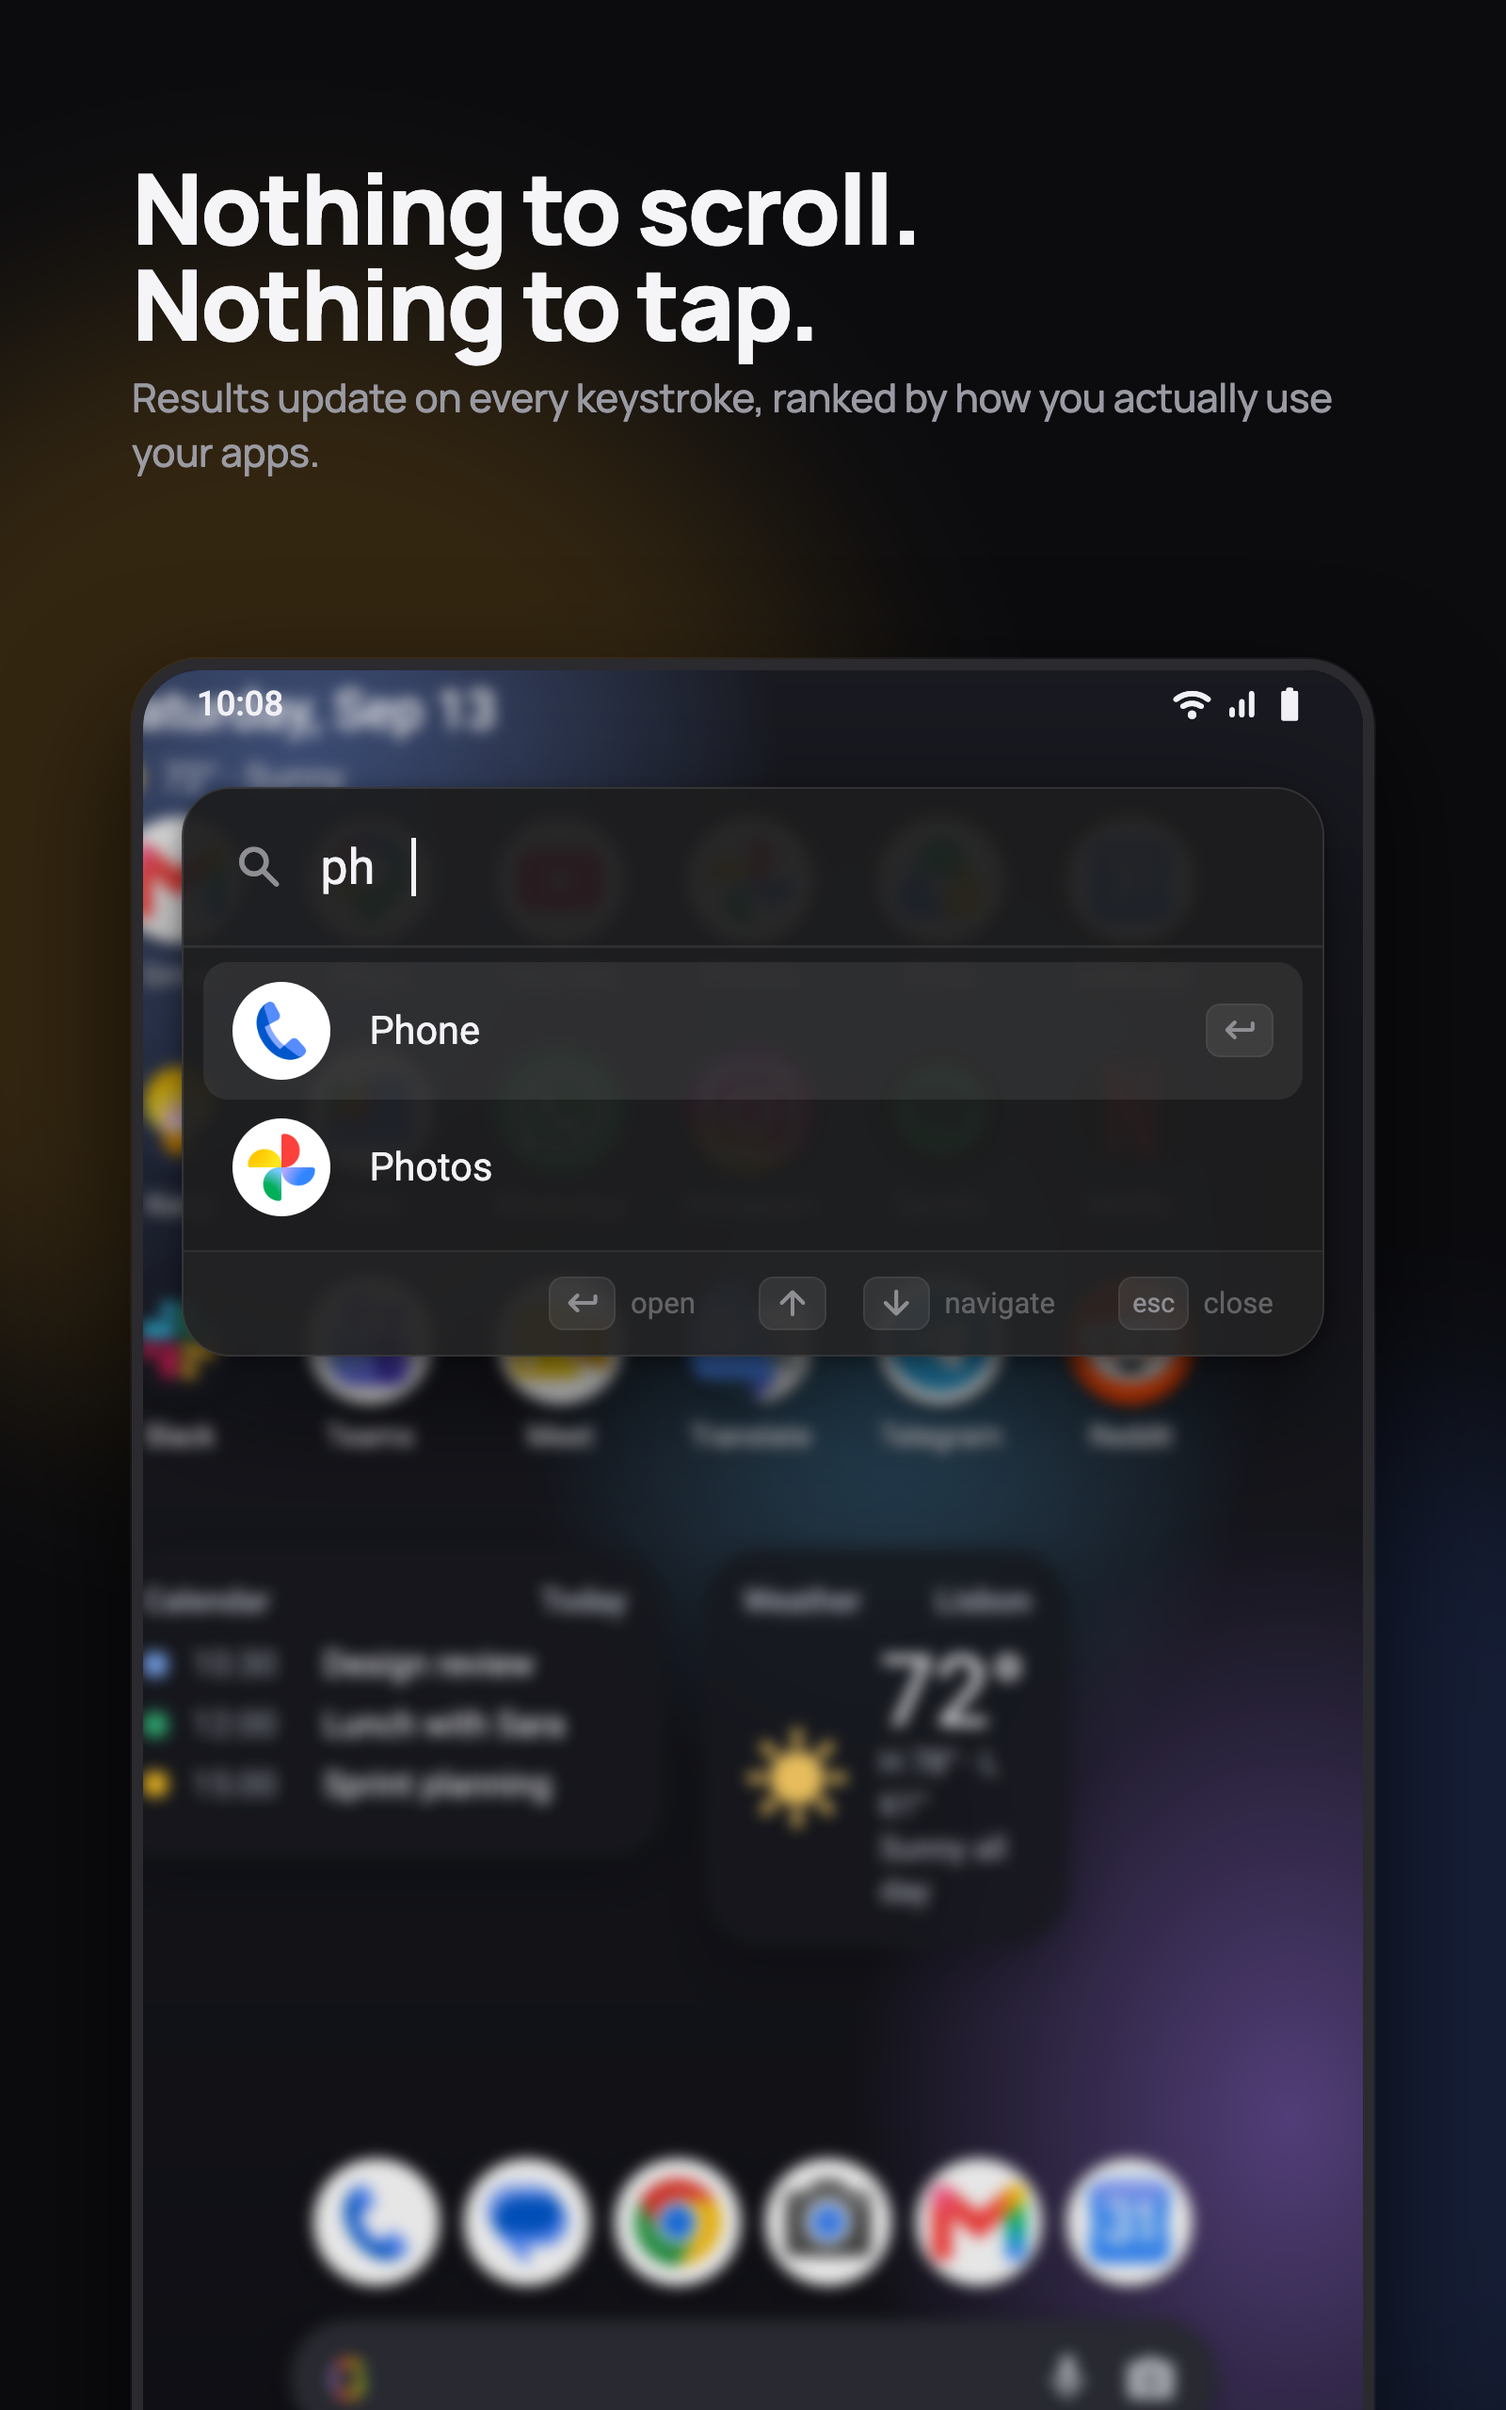
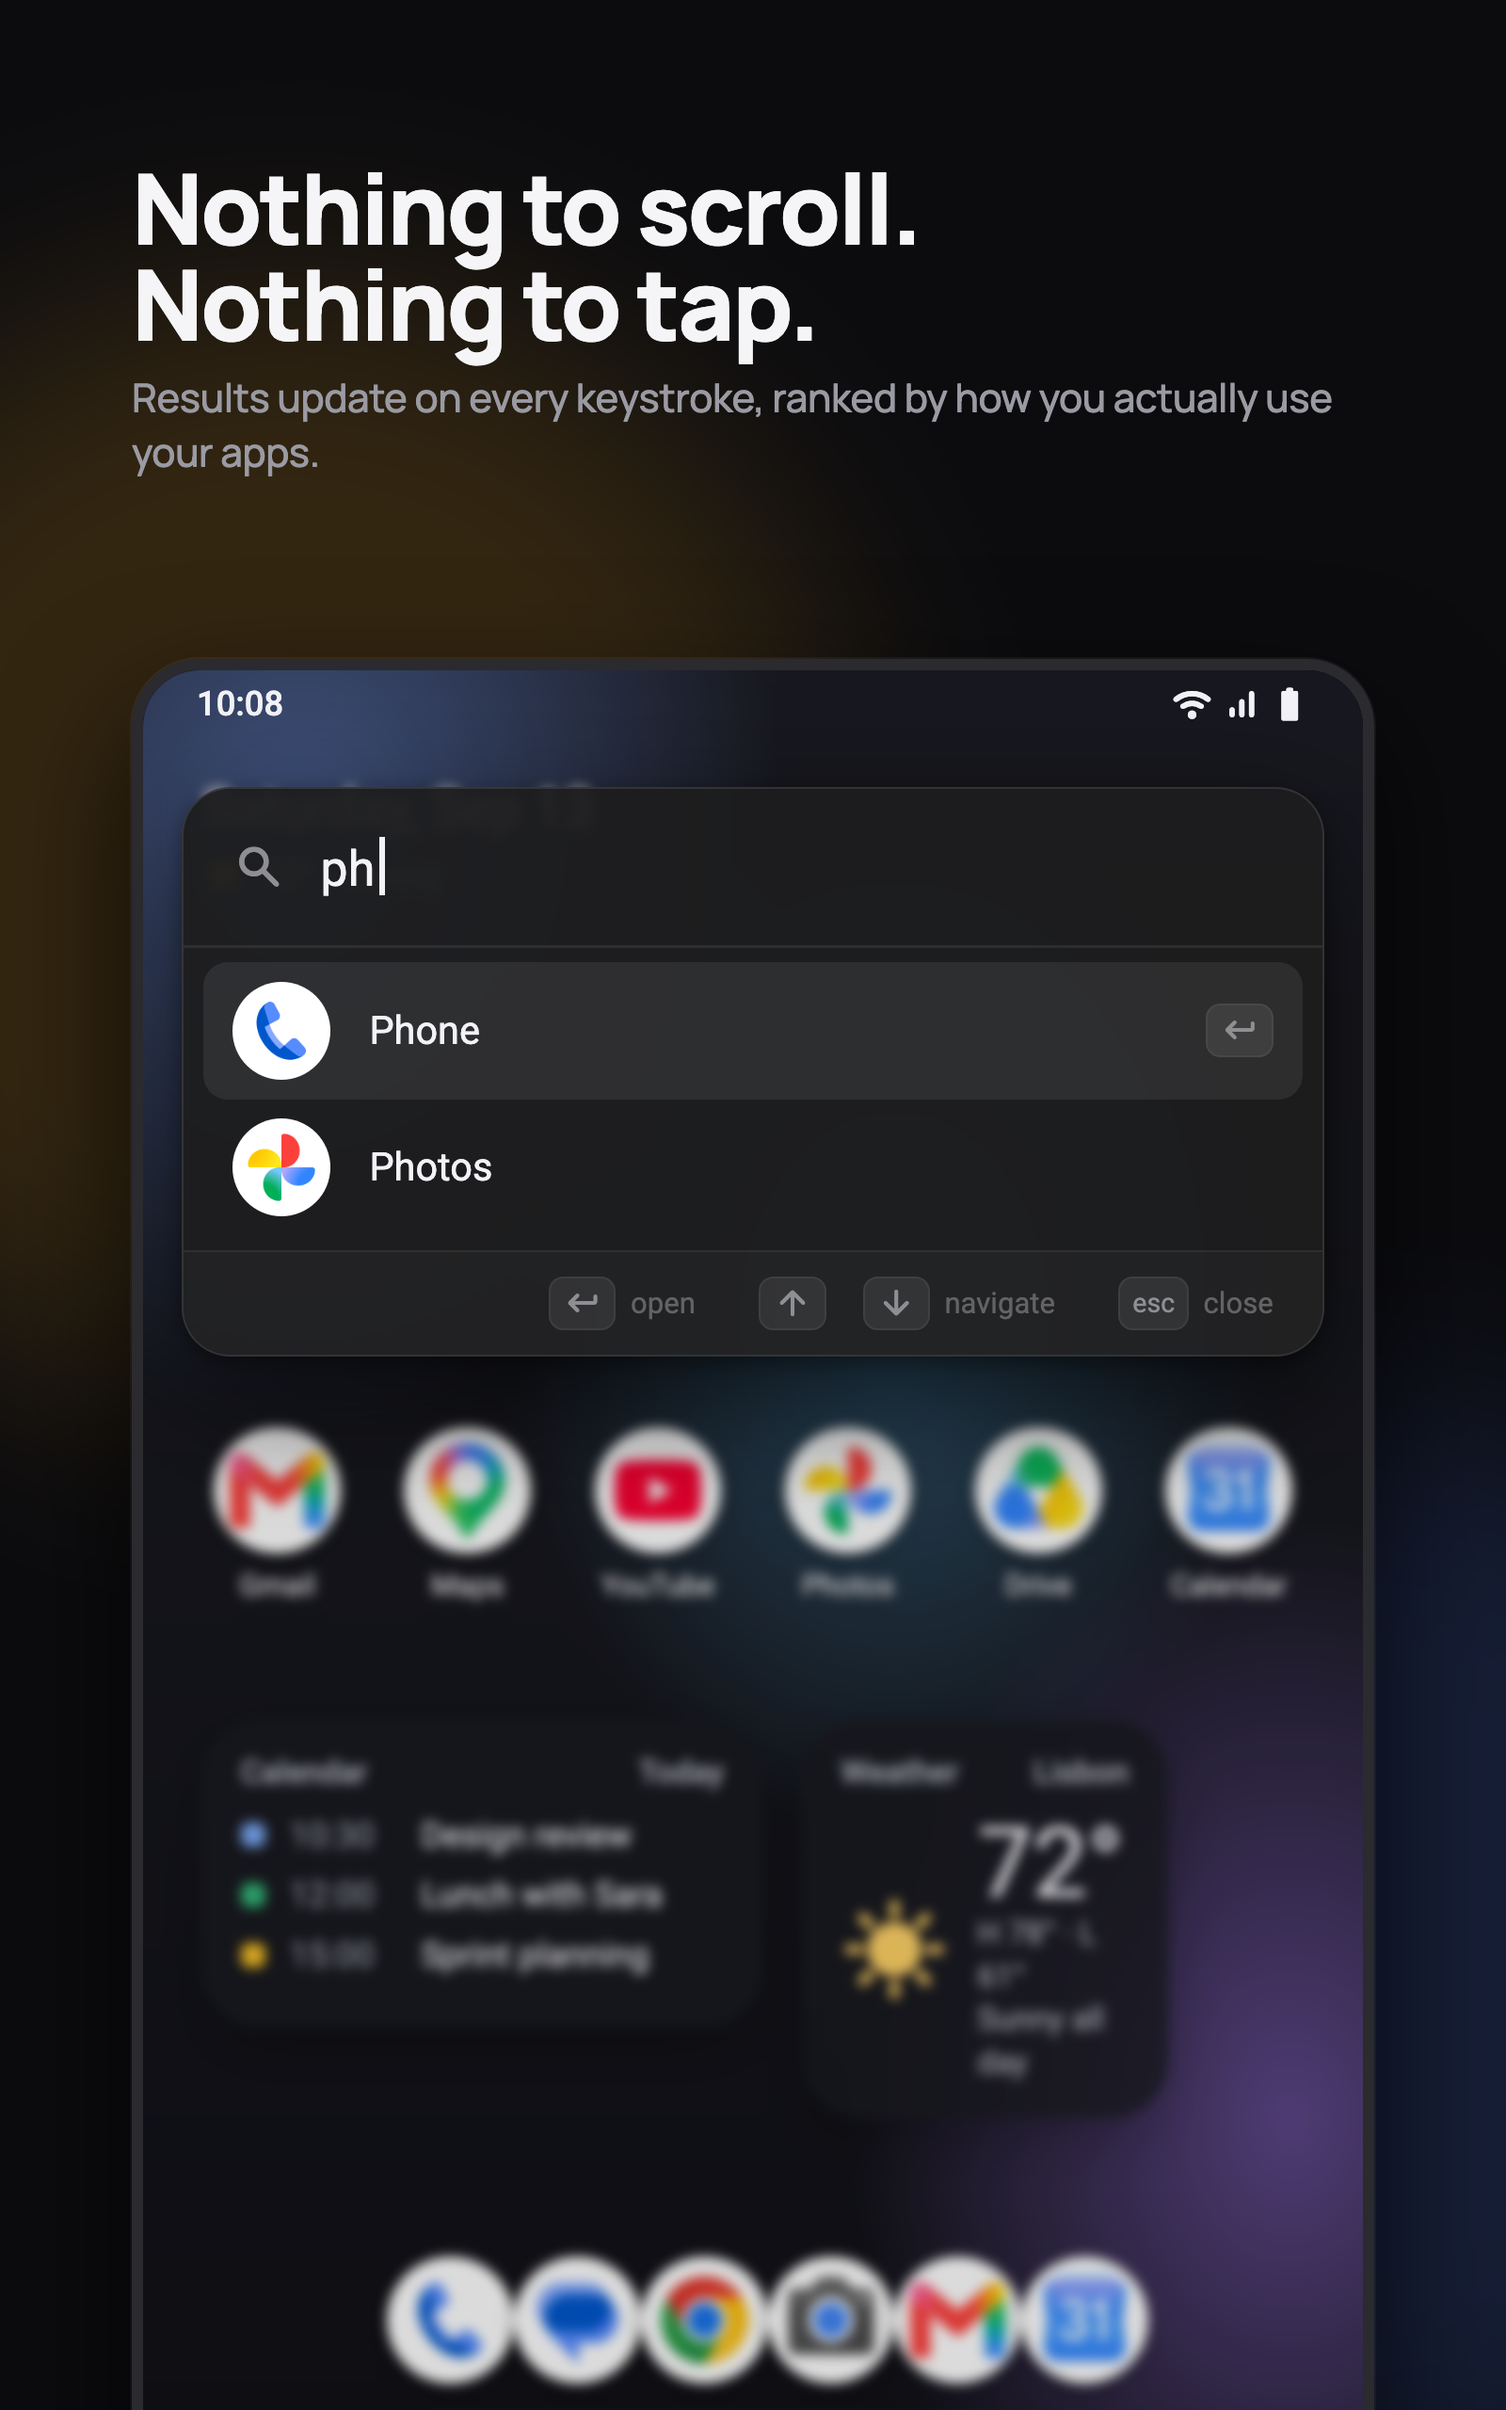
Store screenshots: fix home-layer offset, caret spacing, grid placement; taller landscape screen
The frosted home layer carried its blur bleed margin as padding, shifting content 40 dp up into the
status bar. Caret now sits inside the query span instead of a separate flex item. App grid and widgets
are placed below the card rather than under it. Landscape tablet screen is 540 dp tall so dock and
widgets no longer overlap.

Changed region(s): [[0.0938, 0.4375, 0.875, 1.0], [0.0938, 0.2812, 0.3438, 0.4062], [0.25, 0.3438, 0.2812, 0.375]]

diff --git a/store/screenshots/mockups/gen.py b/store/screenshots/mockups/gen.py
@@ -28,12 +28,13 @@ body{font-family:Manrope,system-ui,sans-serif;color:#F5F5F7;position:relative}
 .screen{position:absolute;inset:0;overflow:hidden;background:#101014}
 .ms{font-family:'Material Symbols Rounded';font-weight:400;line-height:1;display:inline-block;font-variation-settings:'FILL' 1,'wght' 400,'GRAD' 0,'opsz' 24}
 /* ---- home screen (Pixel-style launcher) ---- */
-.home{position:absolute;inset:-40px;padding:40px;font-family:Roboto,sans-serif;color:#F2F2F7;background:
+.home{position:absolute;inset:-40px;font-family:Roboto,sans-serif;color:#F2F2F7;background:
   radial-gradient(55% 45% at 18% 12%,#4A5F92 0,transparent 62%),
   radial-gradient(50% 45% at 88% 72%,#5B4586 0,transparent 62%),
   radial-gradient(45% 40% at 60% 35%,#2C5068 0,transparent 60%),
   linear-gradient(#1C1D25,#0F0F14)}
-.home.blur{filter:blur(3px) brightness(.9) saturate(1)}
+.home.blur{filter:blur(2.5px) brightness(.86) saturate(1)}
+.hs{position:absolute;inset:40px}
 .status{position:absolute;top:0;left:0;right:0;height:28px;display:flex;align-items:center;justify-content:space-between;padding:0 22px;font:500 14px/1 Roboto;color:#F2F2F7;z-index:2}
 .status .ic{display:flex;gap:4px;align-items:center}
 .glance{position:absolute;left:24px;top:44px}
@@ -59,7 +60,7 @@ body{font-family:Manrope,system-ui,sans-serif;color:#F5F5F7;position:relative}
 .card{position:absolute;left:16px;right:16px;top:48px;margin:0 auto;max-width:560px;background:rgba(28,28,30,.95);border:1px solid rgba(255,255,255,.10);border-radius:20px;box-shadow:0 18px 50px rgba(0,0,0,.6),0 2px 8px rgba(0,0,0,.35);overflow:hidden;font-family:Roboto,sans-serif;z-index:5}
 .input{height:64px;display:flex;align-items:center;padding:0 20px;gap:14px;font-size:20px;color:#F2F2F7}
 .input .ms{font-size:22px;color:#8E8E93}.input .hint{color:#636366}
-.caret{display:inline-block;width:2px;height:24px;background:#F2F2F7;margin-left:1px;vertical-align:-4px}
+.caret{display:inline-block;width:2px;height:24px;background:#F2F2F7;margin-left:2px;vertical-align:-4px}
 .divider{height:1px;background:rgba(255,255,255,.08)}
 .body{padding:6px 8px}
 .row{height:56px;display:flex;align-items:center;padding:0 12px;gap:16px;border-radius:10px;color:#F2F2F7;font-size:16px}
@@ -113,7 +114,7 @@ def home(w, h, cols, apps, dock, blur=True, tablet=False, grid_top=100, widget_t
     pill = (f'<div class="pill" style="top:{h-84}px;{"left:"+str(int(w*0.2))+"px;right:"+str(int(w*0.2))+"px" if tablet else ""}"><span class="g">G</span><span class="sp"></span>'
             '<span class="ms">mic</span><span class="ms">photo_camera</span></div>')
     nav = f'<div class="nav" style="top:{h-26}px"><i></i></div>'
-    return f'<div class="home{" blur" if blur else ""}">{glance}{wid}{grid}{dk}{pill}{nav}</div>' + STATUS
+    return f'<div class="home{" blur" if blur else ""}"><div class="hs">{glance}{wid}{grid}{dk}{pill}{nav}</div></div>' + STATUS
 
 def row(name, sel=False, badge=None):
     b = f'<span class="badge">{badge}</span>' if badge else ""
@@ -122,7 +123,7 @@ def row(name, sel=False, badge=None):
 
 def card(query, rows, footer=False, selected=0, badges=None):
     badges = badges or {}
-    q = f'<span>{query}</span><span class="caret"></span>' if query else '<span class="hint">Search apps</span>'
+    q = f'<span>{query}<span class="caret"></span></span>' if query else '<span class="hint">Search apps</span>'
     body = "".join(row(n, i == selected, badges.get(n)) for i, n in enumerate(rows))
     foot = ""
     if footer:
@@ -151,6 +152,9 @@ def page(W, H, glows, head, dev):
     g = "".join(f'<div class="glow" style="left:{x}px;top:{y}px;width:{w}px;height:{h}px;background:{c};opacity:{o}"></div>' for x, y, w, h, c, o in glows)
     return HEAD % CSS + f'<div style="position:absolute;inset:0;width:{W}px;height:{H}px">{g}{head}{dev}</div></body></html>'
 
+def card_bottom(rows, footer=False):
+    return 48 + 64 + 1 + 12 + 56*rows + (43 if footer else 0)
+
 PHONE_APPS = ["Gmail","Maps","YouTube","Photos","Drive","WhatsApp","Instagram","Spotify","Netflix","Slack","Calendar","Keep","Clock","Files","Translate","Telegram","Reddit","X","Uber","Amazon"]
 PHONE_DOCK = ["Phone","Messages","Chrome","Camera","Gmail"]
 TAB_APPS = ["Gmail","Maps","YouTube","Photos","Drive","Calendar","Keep","Files","WhatsApp","Instagram","Spotify","Netflix","Slack","Teams","Meet","Translate","Telegram","Reddit","X","Uber","Amazon","Clock","Weather","Termux"]
@@ -159,39 +163,42 @@ TAB_DOCK = ["Phone","Messages","Chrome","Camera","Gmail","Calendar"]
 SCENES = {}
 PH = dict(left=90, top=640, width=900, height=2000, radius=96, dp_width=360, dp_height=760)
 GP = [(-200, 300, 900, 900, "#FFB020", 0.2), (500, 1500, 900, 900, "#4C7DFF", 0.2)]
-ph_home = home(360, 760, 5, PHONE_APPS[:15], PHONE_DOCK, grid_top=100, widget_top=470)
+
+def ph_home(rows, footer=False):
+    top = card_bottom(rows, footer) + 26
+    return home(360, 760, 5, PHONE_APPS[:5], PHONE_DOCK, grid_top=top, widget_top=top + 112)
 
 SCENES["phone/01_type.png"] = (1080, 2400, GP, headline(90, 170, 900, "Type two letters.<br>Press Enter.", "The app opens. Nothing to tap.", 96, 40),
-    device(**PH, screen_html=ph_home + card("ca", ["Calendar", "Camera", "Calculator"]) + keyboard("ca", "calendar", "can")))
+    device(**PH, screen_html=ph_home(3) + card("ca", ["Calendar", "Camera", "Calculator"]) + keyboard("ca", "calendar", "can")))
 SCENES["phone/02_keys.png"] = (1080, 2400, GP, headline(90, 170, 900, "Hands stay<br>on the keys.", "Arrows move. Enter opens. Esc closes.", 96, 40),
-    device(**PH, screen_html=ph_home + card("te", ["Telegram", "Teams", "Termux"], footer=True, selected=1)))
+    device(**PH, screen_html=ph_home(3, True) + card("te", ["Telegram", "Teams", "Termux"], footer=True, selected=1)))
 SCENES["phone/03_most_used.png"] = (1080, 2400, GP, headline(90, 170, 900, "Your most used,<br>before you type.", "Learns what you open. Works offline.", 96, 40),
-    device(**PH, screen_html=ph_home + card("", ["WhatsApp", "Chrome", "Spotify", "Gmail", "Maps", "YouTube"]) + keyboard()))
+    device(**PH, screen_html=ph_home(6) + card("", ["WhatsApp", "Chrome", "Spotify", "Gmail", "Maps", "YouTube"]) + keyboard()))
 notes = ('<div class="notes"><h2>Standup notes</h2><div class="meta">Edited 9:52 · 3 people</div>' + "".join(f'<div class="ln {c}"></div>' for c in ["", "m", "s", "", "xs", "m", "", "s", "m", "xs", "", "m", "s"]) + '</div>'
          '<div style="position:absolute;inset:0;background:rgba(0,0,0,.45)"></div>')
 SCENES["phone/04_overlay.png"] = (1080, 2400, GP, headline(90, 170, 900, "Over whatever<br>you're doing.", "A small card. Gone the moment you launch.", 96, 40),
     device(**PH, screen_html=notes + STATUS + card("sp", ["Spotify"]) + keyboard("sp", "spotify", "speak")))
 SCENES["phone/05_initials.png"] = (1080, 2400, GP, headline(90, 170, 900, "Initials work too.", "Type “yt” for YouTube, “gm” for Gmail. Work apps are badged.", 96, 40),
-    device(**PH, screen_html=ph_home + card("yt", ["YouTube", "YouTube Music"], badges={"YouTube Music": "Work"}) + keyboard("yt", "youtube", "ytm")))
+    device(**PH, screen_html=ph_home(2) + card("yt", ["YouTube", "YouTube Music"], badges={"YouTube Music": "Work"}) + keyboard("yt", "youtube", "ytm")))
 
 T7 = dict(left=156, top=560, width=1500, height=1900, radius=72, dp_width=560, dp_height=740)
 SCENES["tablet7/01_fold.png"] = (1812, 2176, [(-300, 200, 1200, 1200, "#FFB020", 0.16), (1000, 1300, 1200, 1200, "#4C7DFF", 0.16)],
     headline(156, 150, 1500, "Made for foldables<br>and tablets.", "The card stays centred and readable on any screen. Physical keyboards get key hints.", 110, 44),
-    device(**T7, screen_html=home(560, 740, 6, TAB_APPS[:18], TAB_DOCK, tablet=True, grid_top=100, widget_top=400) + card("ma", ["Maps", "Messages", "Meet"], footer=True)))
+    device(**T7, screen_html=home(560, 740, 6, TAB_APPS[:6], TAB_DOCK, tablet=True, grid_top=card_bottom(3, True)+30, widget_top=card_bottom(3, True)+150) + card("ma", ["Maps", "Messages", "Meet"], footer=True)))
 
-T10L = dict(left=1040, top=190, width=1700, height=1200, radius=64, dp_width=720, dp_height=500)
+T10L = dict(left=1040, top=190, width=1700, height=1200, radius=64, dp_width=720, dp_height=540)
 keycaps = ('<div style="position:absolute;left:150px;top:720px;display:flex;align-items:center;gap:26px;font-family:Manrope">'
            '<span style="padding:26px 44px;border-radius:26px;background:linear-gradient(#3A3A42,#232328);box-shadow:0 10px 0 #15151A,0 22px 40px rgba(0,0,0,.6);font-weight:800;font-size:56px">Ctrl</span>'
            '<span style="font-size:56px;color:#9A9AA3;font-weight:500">+</span>'
            '<span style="padding:26px 120px;border-radius:26px;background:linear-gradient(#3A3A42,#232328);box-shadow:0 10px 0 #15151A,0 22px 40px rgba(0,0,0,.6);font-weight:800;font-size:56px">Space</span></div>')
 SCENES["tablet10/01_landscape.png"] = (2560, 1600, [(-300, -200, 1300, 1300, "#FFB020", 0.16), (1700, 800, 1300, 1300, "#4C7DFF", 0.16)],
     headline(150, 260, 820, "From any app.<br>One shortcut.", "Ctrl+Space opens Quick Launch anywhere a keyboard is attached.", 104, 42) + keycaps,
-    device(**T10L, screen_html=home(720, 500, 8, TAB_APPS[:8], TAB_DOCK, tablet=True, grid_top=96, widget_top=205) + card("sl", ["Slack"], footer=True)))
+    device(**T10L, screen_html=home(720, 540, 8, [], TAB_DOCK, tablet=True, grid_top=0, widget_top=card_bottom(1, True)+26) + card("sl", ["Slack"], footer=True)))
 
 T10P = dict(left=140, top=700, width=1320, height=2100, radius=72, dp_width=500, dp_height=800)
 SCENES["tablet10/02_portrait.png"] = (1600, 2560, [(-300, 300, 1200, 1200, "#FFB020", 0.16), (800, 1500, 1200, 1200, "#4C7DFF", 0.16)],
     headline(140, 170, 1320, "Nothing to scroll.<br>Nothing to tap.", "Results update on every keystroke, ranked by how you actually use your apps.", 104, 42),
-    device(**T10P, screen_html=home(500, 800, 6, TAB_APPS[:18], TAB_DOCK, tablet=True, grid_top=100, widget_top=400) + card("ph", ["Phone", "Photos"], footer=True)))
+    device(**T10P, screen_html=home(500, 800, 6, TAB_APPS[:6], TAB_DOCK, tablet=True, grid_top=card_bottom(2, True)+30, widget_top=card_bottom(2, True)+150) + card("ph", ["Phone", "Photos"], footer=True)))
 
 for rel, (W, H, glows, head, dev) in SCENES.items():
     fn = os.path.join(OUT, rel.replace("/", "__").replace(".png", ".html"))
